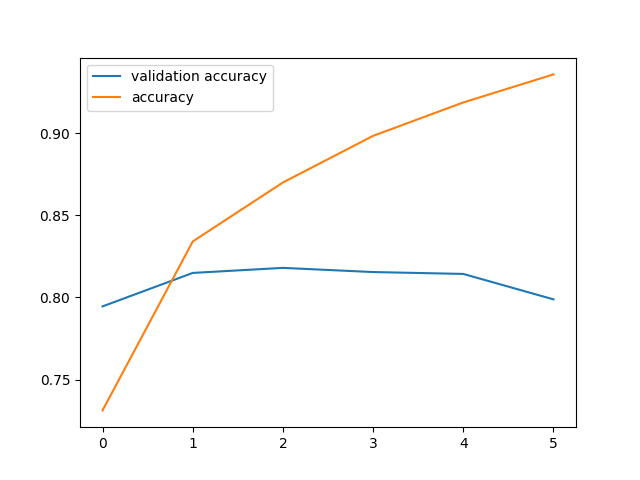
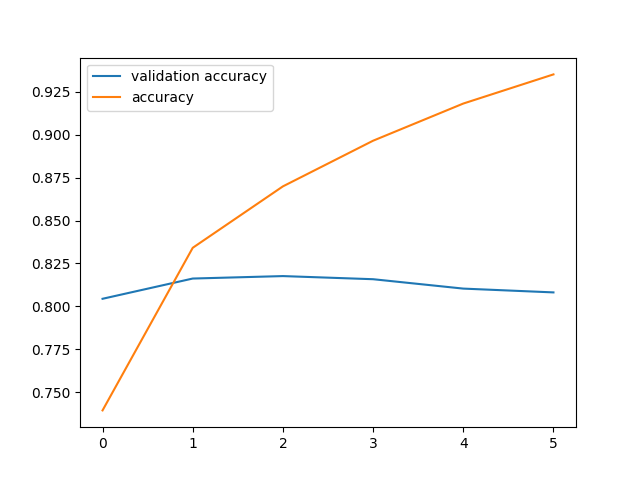
파일 수정

diff --git a/source_code/job05-1_polarity_model_learning.py b/source_code/job05-1_polarity_model_learning.py
@@ -26,12 +26,14 @@ model = Sequential(
         Dropout(0.3),
         LSTM(wordsize // 2400, activation="tanh", return_sequences=True),
         Dropout(0.3),
-        LSTM(wordsize // 2400, activation="tanh", return_sequences=True),
-        Dropout(0.3),
+        # LSTM(wordsize // 2400, activation="tanh", return_sequences=True),
+        # Dropout(0.3),
         LSTM(wordsize // 2400, activation="tanh"),
         Dropout(0.3),
         Flatten(),
         Dense(wordsize // 1200, activation="relu"),
+        Dropout(0.3),
+        Dense(wordsize // 600, activation="relu"),
         Dense(3, activation="softmax")
     ]
 )

diff --git a/source_code/comment_analyzer_application.py b/source_code/comment_analyzer_application.py
@@ -25,7 +25,7 @@ class Main(QWidget, form_window):
         self.setupUi(self)
 
         # 미리 학습된 모델의 파일 경로
-        self.polarity_path = "../models/comment_category_classification_model_199_27766_0.7989.h5"
+        self.polarity_path = "../models/comment_category_classification_model_199_27766_0.8081.h5"
         self.score_path = "../models/score_category_classification_model_199_14075_0.6085.h5"
         self.stopwords = pd.read_csv("../stopwords.csv")
 

diff --git a/source_code/job06_model_predict.py b/source_code/job06_model_predict.py
@@ -12,7 +12,7 @@ from tensorflow.keras.models import load_model
 import os
 
 
-comment_model_file = "../models/comment_category_classification_model_199_27766_0.7989.h5"  # 저장된 모델의 경로 지정
+comment_model_file = "../models/comment_category_classification_model_199_27766_0.8081.h5"  # 저장된 모델의 경로 지정
 score_model_file = "../models/score_category_classification_model_199_14075_0.6085.h5"
 
 comment_model = load_model(comment_model_file)

diff --git a/source_code/application_test.py b/source_code/application_test.py
@@ -15,7 +15,7 @@ from tensorflow.keras.models import load_model
 import os
 
 
-polarity_model_file = "../models/comment_category_classification_model_199_27766_0.7989.h5"
+polarity_model_file = "../models/comment_category_classification_model_199_27766_0.8081.h5"
 
 polarity_model = load_model(polarity_model_file)
 
